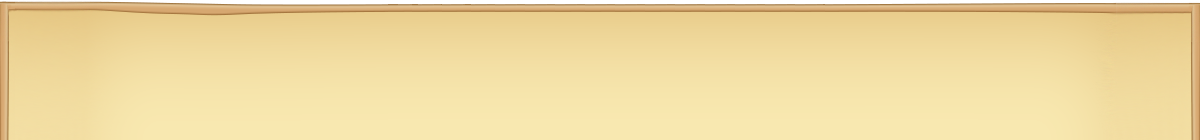
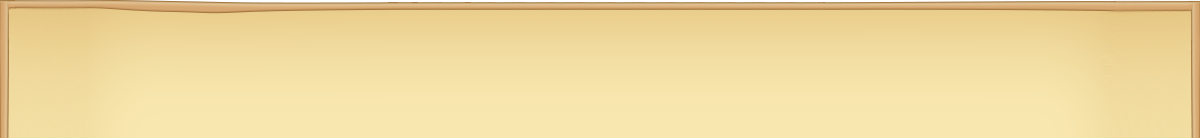
user interface overhaul progress graphics integrated, testing minigames" visuals slightly improved

Changed region(s): [[0.0, 0.0, 1.0, 0.1159]]

diff --git a/core/src/tuc/werkstatt/doubleup/MiniGame.java b/core/src/tuc/werkstatt/doubleup/MiniGame.java
@@ -18,9 +18,17 @@ import tuc.werkstatt.doubleup.network.ClientProgressMessage;
 public abstract class MiniGame implements Screen {
     public final DoubleUp game;
 
-    private ShapeRenderer uiRenderer;
-    private Color uiBarColor;
-    private Color playerColor;
+    private static boolean isUiInitialized = false;
+    private static ShapeRenderer uiShapeRenderer;
+    private static Color uiPlayerColor;
+    private static Sprite bottomPanelSprite;
+    private static Sprite topPanelSprite;
+    private static Sprite roundIndicatorSprite;
+    private static Sprite currRoundIndicatorSprite;
+    private static Sprite flagSprite;
+
+    private static final float indicatorSpacing = 12f;
+    private static float indicatorStartPosX;
 
     private Vector3 projectedTouchPos = new Vector3();
     private Vector2 unprojectedTouchPos = new Vector2();
@@ -35,13 +43,40 @@ public abstract class MiniGame implements Screen {
 
     public MiniGame(DoubleUp game) {
         this.game = game;
-        this.uiRenderer = new ShapeRenderer();
-        this.uiBarColor = new Color(0.85f, 0.85f, 0.85f, 1f);
-        this.playerColor = new Color();
         game.currMiniGame = this;
         sendProgressTimer = new Timer();
         progressMsg = new ClientProgressMessage();
         scheduleProgressTask();
+    }
+
+    public void init(int currRound, int maxRounds) {
+        this.currRound = currRound;
+        this.maxRounds = maxRounds;
+        initUserInterface();
+    }
+
+    private void initUserInterface() {
+        if (isUiInitialized) { return; } else { isUiInitialized = true; }
+
+        uiShapeRenderer = new ShapeRenderer();
+        uiPlayerColor = new Color();
+        topPanelSprite = getSprite("ui/top_panel");
+        topPanelSprite.setPosition(0, game.targetResHeight - game.targetTopBarHeight);
+        bottomPanelSprite = getSprite("ui/bottom_panel");
+        bottomPanelSprite.setPosition(0, 0);
+        roundIndicatorSprite = getSprite("ui/bottom_circle");
+        final float originalIndicatorSize = roundIndicatorSprite.getWidth();
+        final float maxPossibleIndicatorSize = Math.max(10, (game.targetResWidth - (maxRounds + 1) * indicatorSpacing) / maxRounds);
+        final float scaledIndicatorSize = Math.min(originalIndicatorSize, maxPossibleIndicatorSize);
+        final boolean evenNumRounds = maxRounds % 2 == 0;
+        indicatorStartPosX = evenNumRounds ?
+                game.targetResWidth / 2 - ((maxRounds / 2) * (scaledIndicatorSize + indicatorSpacing)) + indicatorSpacing / 2:
+                (game.targetResWidth - scaledIndicatorSize) / 2 - ((maxRounds / 2) * (scaledIndicatorSize + indicatorSpacing));
+        currRoundIndicatorSprite = getSprite("ui/bottom_filled");
+        roundIndicatorSprite.setSize(scaledIndicatorSize, scaledIndicatorSize);
+        currRoundIndicatorSprite.setSize(scaledIndicatorSize, scaledIndicatorSize);
+        flagSprite = getSprite("ui/flag");
+        flagSprite.setPosition(1140f - flagSprite.getWidth() / 2, game.targetResHeight - flagSprite.getHeight() - 3f);
     }
 
     private void scheduleProgressTask() {
@@ -77,12 +112,10 @@ public abstract class MiniGame implements Screen {
 
     @Override
     public final void render(float deltaTime) {
-        game.uiView.apply();
         Gdx.gl.glClearColor(0.2f, 0.2f, 0.2f, 1);
         Gdx.gl.glClear(GL20.GL_COLOR_BUFFER_BIT);
-        drawUserInterface();
 
-        game.camera.update();
+        //game.camera.update();
         if (Gdx.input.isTouched()) {
             projectedTouchPos.set(Gdx.input.getX(), Gdx.input.getY(), 0);
             game.camera.unproject(projectedTouchPos);
@@ -91,6 +124,9 @@ public abstract class MiniGame implements Screen {
         game.gameView.apply();
         draw(deltaTime);
         update(deltaTime);
+
+        game.uiView.apply();
+        drawUserInterface();
 
         if (isFinished()) {
             System.out.println("Client: ClientFinishedMessage sent");
@@ -103,61 +139,55 @@ public abstract class MiniGame implements Screen {
     }
 
     private void drawUserInterface() {
-        uiRenderer.setProjectionMatrix(game.uiCamera.combined);
         drawUiTopBar();
         drawUiBottomBar();
     }
 
     private void drawUiTopBar() {
-        final int topBarY = game.targetResHeight - game.targetTopBarHeight;
-        uiRenderer.begin(ShapeRenderer.ShapeType.Filled);
-        uiRenderer.setColor(uiBarColor);
-        uiRenderer.rect(0, topBarY, game.targetResWidth, game.targetTopBarHeight);
+        final int topPanelY = game.targetResHeight - game.targetTopBarHeight;
+        // values measured in image editor
+        final int progressBarX = 20;
+        final int progressBarY = topPanelY + 52;
+        final int progressBarWidth = 1162;
+        final int progressBarHeight = 36;
 
-        final int padding = game.targetTopBarHeight / 4;
-        final int indicatorHeight = game.targetTopBarHeight / 2;
-        final int maxIndicatorWidth = game.targetResWidth - padding * 2;
+        uiShapeRenderer.setProjectionMatrix(game.uiCamera.combined);
+        uiShapeRenderer.begin(ShapeRenderer.ShapeType.Filled);
+        uiShapeRenderer.setColor(Color.WHITE);
+        uiShapeRenderer.rect(progressBarX, progressBarY, progressBarWidth, progressBarHeight);
         if (players != null) {
             for (Player p : players) {
-                Color.rgba8888ToColor(playerColor, p.color8888);
-                uiRenderer.setColor(playerColor);
+                Color.rgba8888ToColor(uiPlayerColor, p.color8888);
+                uiShapeRenderer.setColor(uiPlayerColor);
                 final float progress = p.ID == game.client.getID() ? getProgress() : p.miniGameProgress;
-                final int progressInWidth = (int) (maxIndicatorWidth / 100f * progress);
-                uiRenderer.rect(padding, topBarY + padding, progressInWidth, indicatorHeight);
+                final int currPlayerProgressInWidth = (int) (progressBarWidth / 100f * progress);
+                uiShapeRenderer.rect(progressBarX, progressBarY, currPlayerProgressInWidth, progressBarHeight);
             }
         }
-        uiRenderer.end();
+        uiShapeRenderer.end();
 
-        uiRenderer.begin(ShapeRenderer.ShapeType.Line);
-        uiRenderer.setColor(Color.GRAY);
-        uiRenderer.rect(padding, topBarY + padding, maxIndicatorWidth, indicatorHeight);
-        uiRenderer.end();
+        game.batch.setProjectionMatrix(game.uiCamera.combined);
+        game.batch.begin();
+        topPanelSprite.draw(game.batch);
+        flagSprite.draw(game.batch);
+        game.batch.end();
     }
 
     private void drawUiBottomBar() {
-        final int indicatorSpacing = game.targetBottomBarHeight / 8;
-        final int padding = game.targetBottomBarHeight / 4;
-        final int maxPossibleIndicatorSize = Math.max(1, (game.targetResWidth - padding * 2 - (maxRounds - 1) * indicatorSpacing) / maxRounds);
-        final int indicatorSize = Math.min(game.targetBottomBarHeight / 2, maxPossibleIndicatorSize);
-        final boolean evenNumRounds = maxRounds % 2 == 0;
-        final int startPosX = evenNumRounds ?
-                game.targetResWidth / 2 - ((maxRounds / 2) * (indicatorSize + indicatorSpacing)) + indicatorSpacing / 2:
-                (game.targetResWidth - indicatorSize) / 2 - ((maxRounds / 2) * (indicatorSize + indicatorSpacing));
-
-        uiRenderer.begin(ShapeRenderer.ShapeType.Filled);
-        uiRenderer.setColor(uiBarColor);
-        uiRenderer.rect(0, 0, game.targetResWidth, game.targetBottomBarHeight);
-
+        game.batch.setProjectionMatrix(game.uiCamera.combined);
+        game.batch.begin();
+        bottomPanelSprite.draw(game.batch);
         for (int i = 1; i <= maxRounds; ++i) {
+            final float currPosX = indicatorStartPosX + (i - 1) * (roundIndicatorSprite.getWidth() + indicatorSpacing);
             if (i == currRound) {
-                uiRenderer.setColor(Color.SCARLET);
+                currRoundIndicatorSprite.setPosition(currPosX, (game.targetBottomBarHeight - currRoundIndicatorSprite.getWidth()) / 2);
+                currRoundIndicatorSprite.draw(game.batch);
             } else {
-                uiRenderer.setColor(Color.GRAY);
+                roundIndicatorSprite.setPosition(currPosX, (game.targetBottomBarHeight - roundIndicatorSprite.getWidth()) / 2);
+                roundIndicatorSprite.draw(game.batch);
             }
-            final int currPosX = startPosX + (i - 1) * (indicatorSize + indicatorSpacing);
-            uiRenderer.rect(currPosX, (game.targetBottomBarHeight - indicatorSize) / 2, indicatorSize, indicatorSize);
         }
-        uiRenderer.end();
+        game.batch.end();
     }
 
     public final Vector2 getTouchPos() {

diff --git a/core/src/tuc/werkstatt/doubleup/Lobby.java b/core/src/tuc/werkstatt/doubleup/Lobby.java
@@ -54,11 +54,9 @@ public class Lobby implements Screen {
                     " client(s)", 10, game.font.getLineHeight());
             if (game.server.getConnections().length > 0) {
                 game.font.setColor(Color.GREEN);
-                game.font.draw(game.batch, "start games, GO!", 10, (game.targetResHeight - game.font.getLineHeight()) / 2);
                 game.font.draw(game.batch, "Click/touch to start", 10, game.font.getLineHeight() * 2);
             } else {
                 game.font.setColor(Color.RED);
-                game.font.draw(game.batch, "waiting for clients", 10, (game.targetResHeight - game.font.getLineHeight()) / 2);
                 game.font.draw(game.batch, "At least one client required to start", 10, game.font.getLineHeight() * 2);
             }
             game.font.setColor(Color.WHITE);
@@ -145,8 +143,7 @@ public class Lobby implements Screen {
                         @Override
                         public void run() {
                             game.loadMiniGame(game.minigames.get(ID));
-                            game.currMiniGame.currRound = currRound;
-                            game.currMiniGame.maxRounds = maxRounds;
+                            game.currMiniGame.init(currRound, maxRounds);
                             if (game.currMiniGame.players != null) {
                                 for (Player p : game.currMiniGame.players) {
                                     p.miniGameProgress = 0;

diff --git a/core/src/tuc/werkstatt/doubleup/Start.java b/core/src/tuc/werkstatt/doubleup/Start.java
@@ -74,7 +74,6 @@ public class Start implements Screen {
         Gdx.gl.glClear(GL20.GL_COLOR_BUFFER_BIT);
         game.batch.setProjectionMatrix(game.uiCamera.combined);
         game.batch.begin();
-
         sprites.get("title_background").draw(game.batch);
         sprites.get("help_button").draw(game.batch);
         if (isSlidedOut) {
@@ -86,8 +85,6 @@ public class Start implements Screen {
         sprites.get(isHosting ? "toggle_green" : "toggle_red").draw(game.batch);
         sprites.get("highscores_button").draw(game.batch);
         sprites.get("join_button").draw(game.batch);
-
-        game.font.draw(game.batch, "StartScreen - options, game rules", 10, game.font.getLineHeight());
         game.batch.end();
 
         updateLogic(deltaTime);

diff --git a/core/src/tuc/werkstatt/doubleup/DoubleUp.java b/core/src/tuc/werkstatt/doubleup/DoubleUp.java
@@ -22,8 +22,8 @@ public class DoubleUp extends Game {
     // 16:10 aspect ratio, native nexus 7 (course device) resolution
     public final int targetResWidth = 1200;
     public final int targetResHeight = 1920;
-    public final int targetTopBarHeight = 80;
-    public final int targetBottomBarHeight = 80;
+    public final int targetTopBarHeight = 138;
+    public final int targetBottomBarHeight = 138;
 	public final int width = targetResWidth;
 	public final int height = targetResHeight - targetTopBarHeight - targetBottomBarHeight;
 

diff --git a/core/src/tuc/werkstatt/doubleup/Results.java b/core/src/tuc/werkstatt/doubleup/Results.java
@@ -19,10 +19,6 @@ public class Results implements Screen {
         game.uiView.apply();
         Gdx.gl.glClearColor(0.2f, 0.2f, 0.2f, 1);
         Gdx.gl.glClear(GL20.GL_COLOR_BUFFER_BIT);
-        game.batch.setProjectionMatrix(game.uiCamera.combined);
-        game.batch.begin();
-        game.font.draw(game.batch, "Results", 10, game.font.getLineHeight());
-        game.batch.end();
 
         if (Gdx.input.justTouched()) {
             dispose();
